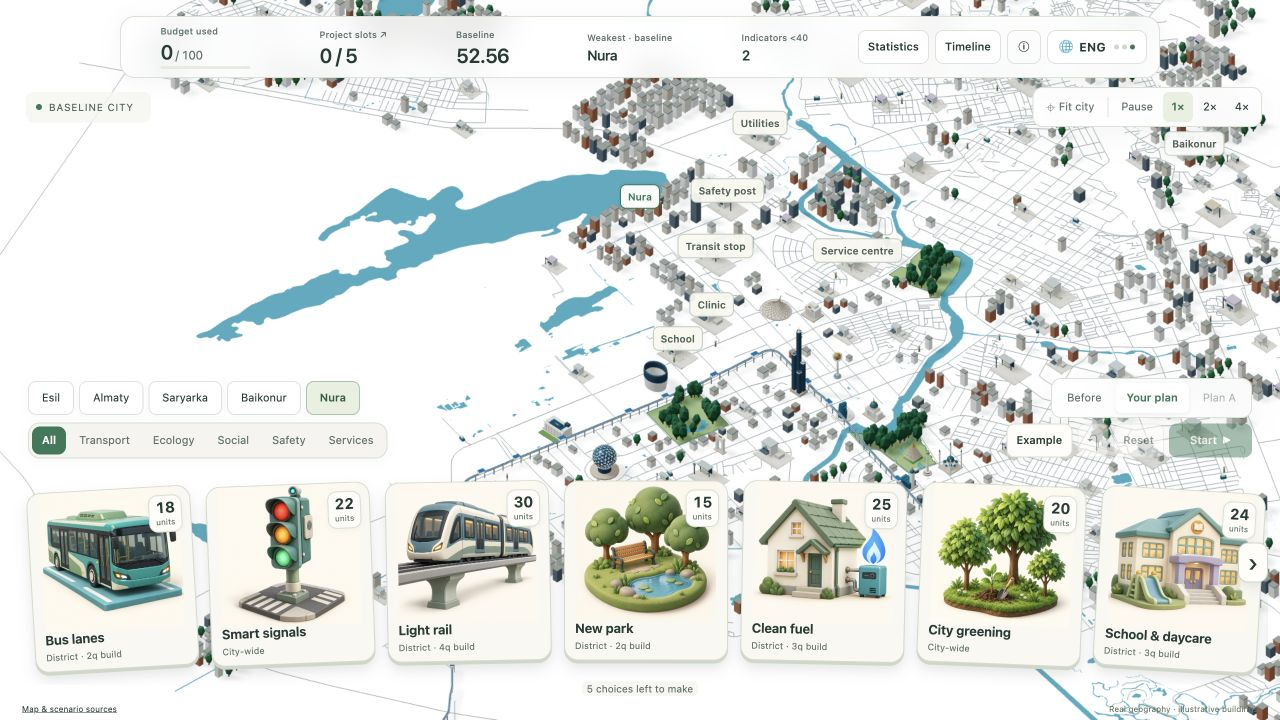
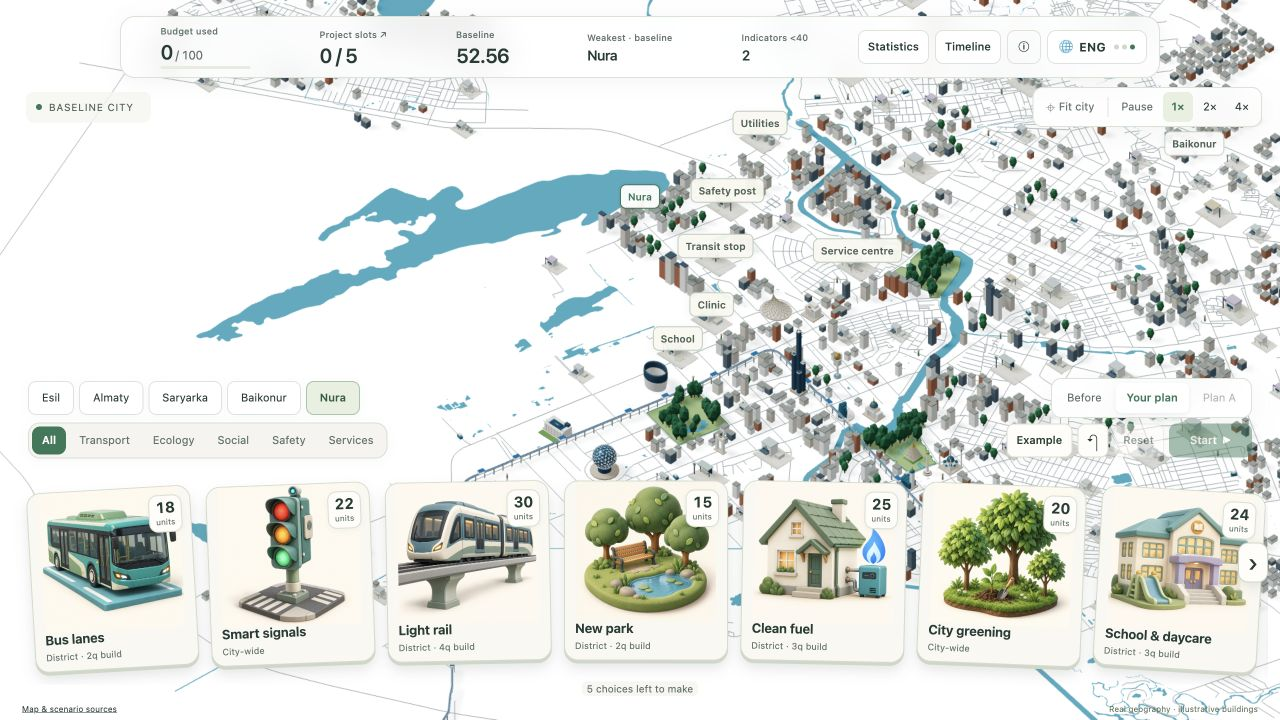
docs: refresh screenshots and replay after the final city polish

diff --git a/docs/media/README.md b/docs/media/README.md
@@ -1,6 +1,6 @@
 # README media
 
-Captured from the running app at commit `038fbdf` on 23 September 2026.
+Captured from the running app at commit `d5db129` (including Claude’s final downtown density, height and landmark polish) on 23 September 2026.
 
 - `city-overview.jpg`: the city focused on Nura, with the project hand visible.
 - `construction-replay.gif`: 65 captured frames of Example → Start → the quarter-eight result, encoded at 4 frames per second and 960 × 540 pixels.
